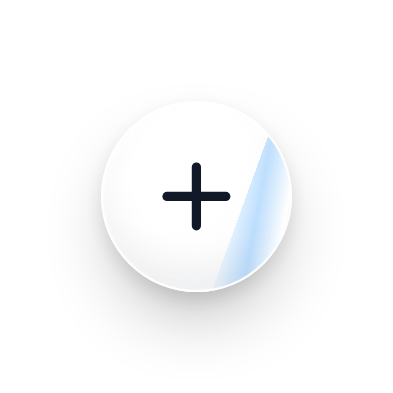
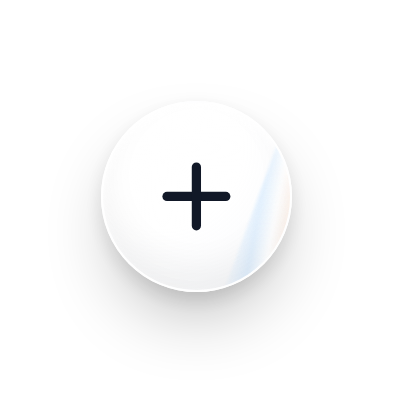
Plus glint: thinner and fainter; refresh the store-mockup script

Changed region(s): [[0.5496, 0.3359, 0.7328, 0.7328]]

diff --git a/src/index.css b/src/index.css
@@ -465,10 +465,11 @@ input[type="time"]::-webkit-calendar-picker-indicator {
   top: -15%;
   bottom: -15%;
   left: -70%;
-  width: 46%;
-  /* A bright core with faint cool and warm fringes, so it still shows on a light bubble (white-on-white would vanish). */
-  background: linear-gradient(80deg, transparent 0%, rgba(70, 165, 255, 0.34) 28%, rgba(255, 255, 255, 0.98) 50%, rgba(255, 165, 105, 0.34) 72%, transparent 100%);
+  width: 22%;
+  /* A thin, faint band: a soft white core with the barest cool and warm fringes (so it shows on a light bubble). */
+  background: linear-gradient(80deg, transparent 0%, rgba(70, 165, 255, 0.14) 30%, rgba(255, 255, 255, 0.62) 50%, rgba(255, 165, 105, 0.14) 70%, transparent 100%);
   transform: skewX(-20deg);
+  filter: blur(0.6px);
 }
 @media (prefers-reduced-motion: no-preference) {
   .glass-glint::before { animation: glass-glint-sweep 4.2s ease-in-out infinite; }

diff --git a/scripts/store-screenshots/redo_mockups.py b/scripts/store-screenshots/redo_mockups.py
@@ -115,12 +115,20 @@ def process(folder, cfg, name, blurred_bg):
         b = Image.open(f"/private/tmp/claude-501/shots/bubble-{cfg['ppt']}.png").convert('RGBA')   # the app's own PlusBubble, rendered in Chrome
         centre_y = cfg['border'] + 4 * cfg['ppt']
         if blurred_bg:
-            # the whole screen is dimmed and blurred under the modal: dim and blur the bubble to match
+            # The screen is dimmed and blurred under the modal: render the bubble on the dimmed backdrop's own tone,
+            # blur it, and paste it as a patch, so it reads as a soft pale disc rather than a dark ring.
             bgc = np.asarray(img)[int(centre_y + diam * 0.9), int(cx) - 120:int(cx) - 60].mean(axis=(0, 1))
             f = float(bgc.mean() / 255.0)
-            arr = np.asarray(b).astype(np.float32)
-            arr[..., :3] *= f
-            b = Image.fromarray(arr.astype(np.uint8), 'RGBA').filter(ImageFilter.GaussianBlur(9))
+            patch = Image.new('RGBA', b.size, (255, 255, 255, 255))
+            patch.alpha_composite(b)
+            patch = patch.convert('RGB').filter(ImageFilter.GaussianBlur(9))
+            patch = Image.fromarray((np.asarray(patch).astype(np.float32) * f).astype(np.uint8))
+            mask = Image.new('L', b.size, 0)
+            rr = 0.60 * diam
+            ImageDraw.Draw(mask).ellipse([b.width / 2 - rr, b.height / 2 - rr * 0.92, b.width / 2 + rr, b.height / 2 + rr * 1.12], fill=255)
+            mask = mask.filter(ImageFilter.GaussianBlur(14))
+            img.paste(patch, (int(round(cx - b.width / 2)), int(round(centre_y - b.height / 2))), mask)
+            return img
         img = img.convert('RGBA')
         img.alpha_composite(b, (int(round(cx - b.width / 2)), int(round(centre_y - b.height / 2))))
         img = img.convert('RGB')
